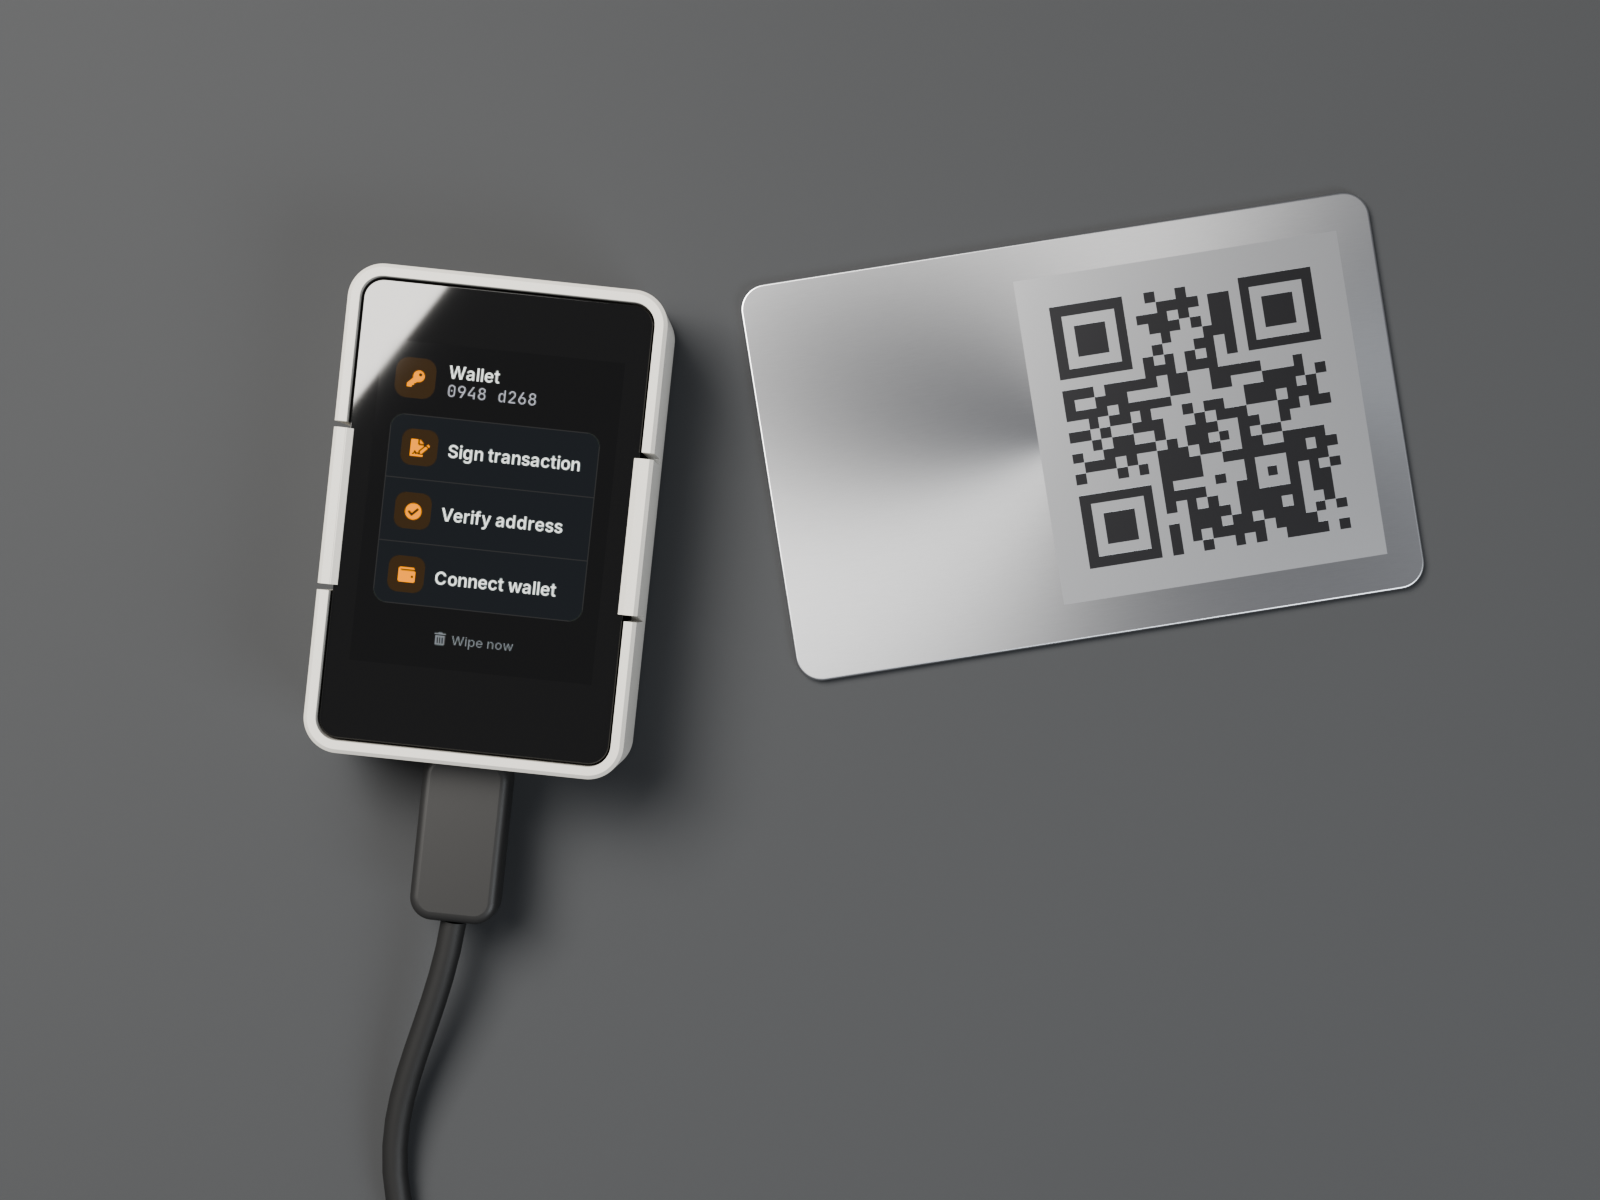
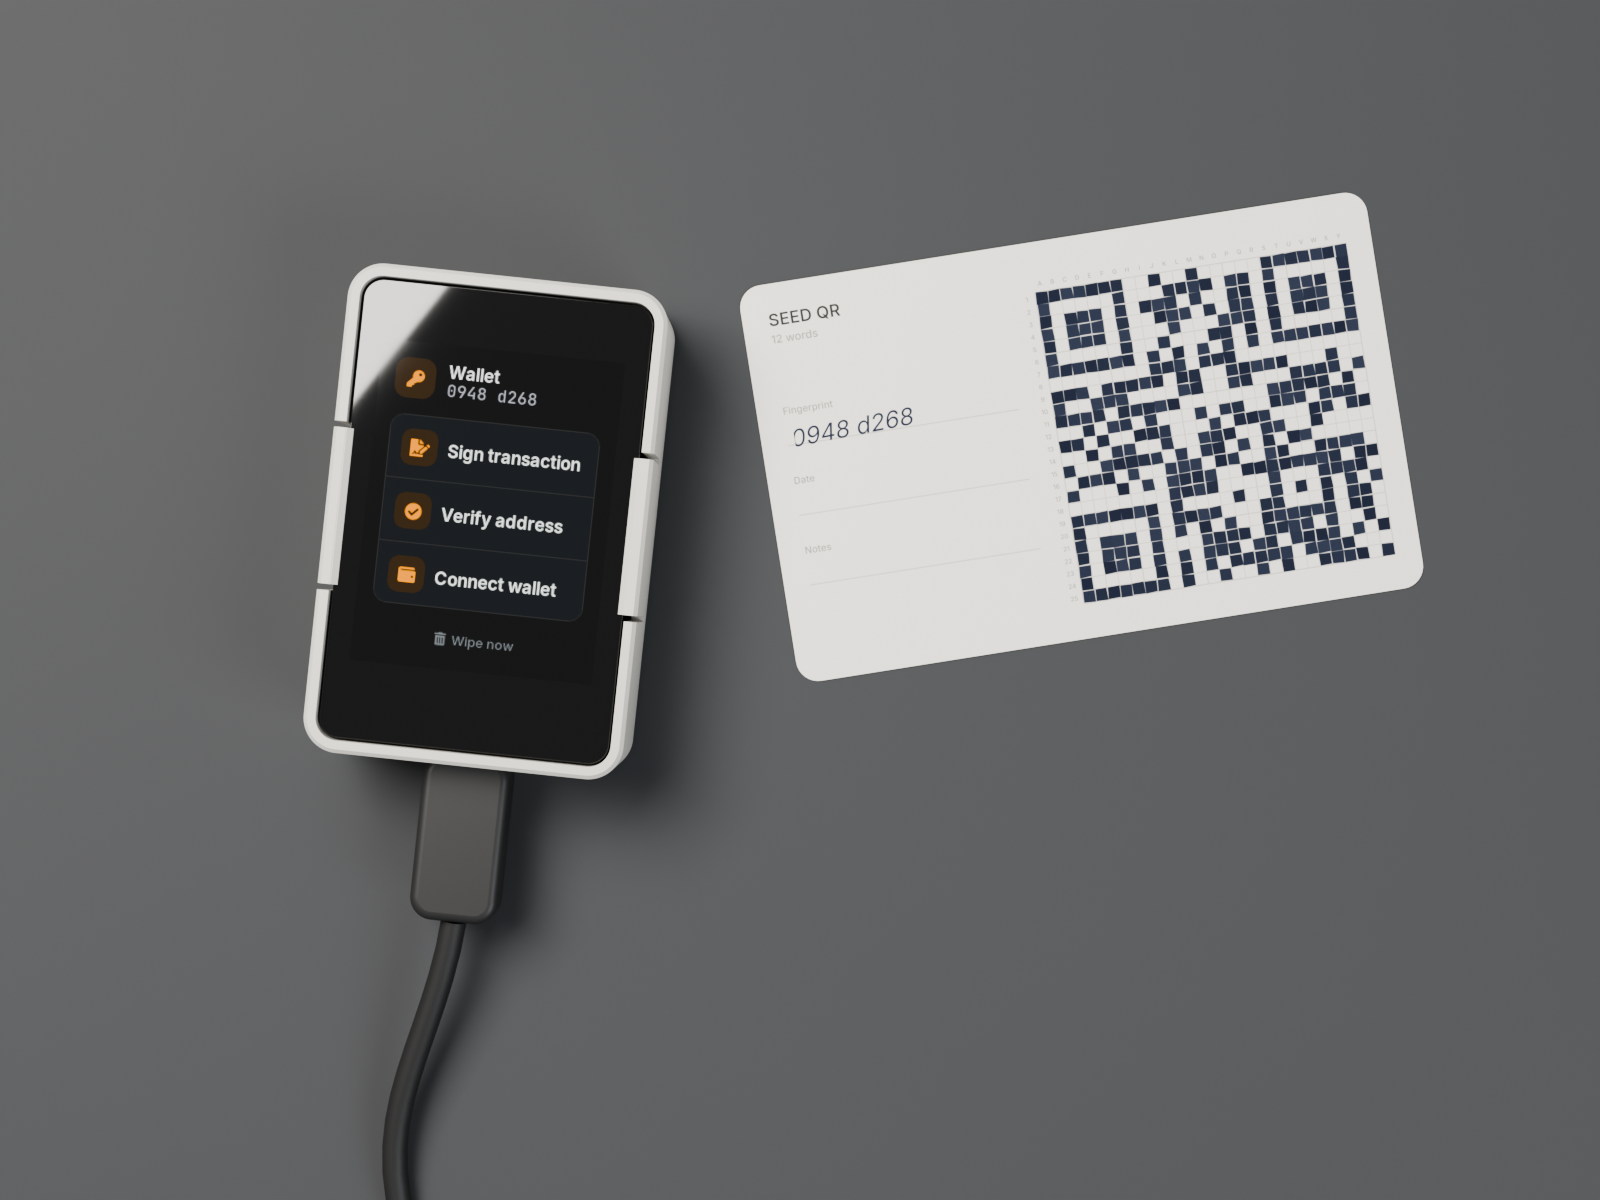
Replace the steel plate with a paper SeedQR card in the mockups
The card is a real, scannable SeedQR (ZXing decodes it) of SeedSigner's
public 12-word test vector, hand-filled style on a printed grid, matching the
fingerprint the device screens show. Generator: assets/make_seedqr_card.py.

Changed region(s): [[0.4375, 0.1542, 0.9062, 0.555], [0.5, 0.555, 0.5625, 0.5858]]

diff --git a/marketing/renders/scenes.py b/marketing/renders/scenes.py
@@ -1,9 +1,10 @@
 """Lifestyle mockups: the real case in context (desk with a laptop, flat lay
-with a steel seed backup, close-up). Device geometry and screens come from
+with a paper SeedQR backup, close-up). Device geometry and screens come from
 device.py, i.e. the real case STL and the firmware's simulator screenshots.
 
 The laptop shows a generic wallet window (assets/laptop_screen.png), not any
-real app's UI. The steel plate carries SeedSigner's public 12-word test vector.
+real app's UI. The paper SeedQR card carries SeedSigner's public 12-word test vector
+(the same seed the device screens show, fingerprint 0948d268).
 
 Run from the repo root:
     blender -b -P marketing/renders/scenes.py
@@ -158,52 +159,33 @@ def laptop(loc, rz, open_deg=112):
     return root
 
 
-def steel_plate(loc, rz):
-    root = bpy.data.objects.new("plate", None)
-    link(root)
-    m, nt, p = node_mat("steel")
-    # brushed: anisotropic-ish streaks from stretched noise
+def seed_card(loc, rz):
+    """Paper SeedQR backup card, credit-card size, filled in by hand (assets/seedqr_card.png)."""
+    m, nt, p = node_mat("seedqr_card")
     tc = nt.nodes.new("ShaderNodeTexCoord")
-    mp = nt.nodes.new("ShaderNodeMapping"); mp.inputs["Scale"].default_value = (1, 120, 1)
-    noise = nt.nodes.new("ShaderNodeTexNoise"); noise.inputs["Scale"].default_value = 6.0
-    ramp = nt.nodes.new("ShaderNodeValToRGB")
-    ramp.color_ramp.elements[0].color = (0.55, 0.56, 0.58, 1)
-    ramp.color_ramp.elements[1].color = (0.75, 0.76, 0.78, 1)
-    nt.links.new(tc.outputs["Object"], mp.inputs["Vector"])
-    nt.links.new(mp.outputs["Vector"], noise.inputs["Vector"])
-    nt.links.new(noise.outputs["Fac"], ramp.inputs["Fac"])
-    nt.links.new(ramp.outputs["Color"], p.inputs["Base Color"])
-    p.inputs["Metallic"].default_value = 1.0
-    p.inputs["Roughness"].default_value = 0.3
-    p.inputs["Anisotropic"].default_value = 0.6
-    rounded_box("plate_body", 8.56, 5.4, 0.12, 0.35, 0.03, m, root, (0, 0, 0.06))
+    tex = nt.nodes.new("ShaderNodeTexImage")
+    tex.image = bpy.data.images.load(os.path.join(ASSETS, "seedqr_card.png"))
+    tex.extension = 'EXTEND'
+    nt.links.new(tc.outputs["UV"], tex.inputs["Vector"])
+    nt.links.new(tex.outputs["Color"], p.inputs["Base Color"])
+    noise = nt.nodes.new("ShaderNodeTexNoise"); noise.inputs["Scale"].default_value = 300.0
+    bump = nt.nodes.new("ShaderNodeBump"); bump.inputs["Strength"].default_value = 0.05
+    nt.links.new(noise.outputs["Fac"], bump.inputs["Height"])
+    nt.links.new(bump.outputs["Normal"], p.inputs["Normal"])
+    p.inputs["Roughness"].default_value = 0.85
+    p.inputs["Specular IOR Level"].default_value = 0.2
 
-    # punched dots: QR texture darkens and roughens the steel, plus a bump
-    qm, qt, qp = node_mat("plate_qr")
-    tex = qt.nodes.new("ShaderNodeTexImage")
-    tex.image = bpy.data.images.load(os.path.join(ASSETS, "plate_qr.png"))
-    tex.interpolation = 'Closest'
-    inv = qt.nodes.new("ShaderNodeInvert")
-    mixc = qt.nodes.new("ShaderNodeMix"); mixc.data_type = 'RGBA'
-    mixc.inputs["A"].default_value = (0.66, 0.67, 0.69, 1)
-    mixc.inputs["B"].default_value = (0.08, 0.08, 0.085, 1)
-    bump = qt.nodes.new("ShaderNodeBump"); bump.inputs["Strength"].default_value = 0.6
-    qt.links.new(tex.outputs["Color"], inv.inputs["Color"])
-    qt.links.new(inv.outputs["Color"], mixc.inputs["Factor"])
-    qt.links.new(mixc.outputs["Result"], qp.inputs["Base Color"])
-    qt.links.new(tex.outputs["Color"], bump.inputs["Height"])
-    qt.links.new(bump.outputs["Normal"], qp.inputs["Normal"])
-    qp.inputs["Metallic"].default_value = 1.0
-    qp.inputs["Roughness"].default_value = 0.35
     bpy.ops.mesh.primitive_plane_add(size=1)
-    q = bpy.context.object
-    q.scale = (4.4, 4.4, 1)
-    q.location = (1.6, 0, 0.1205)
-    q.data.materials.append(qm)
-    link(q, root)
-    root.location = loc
-    root.rotation_euler = (0, 0, rz)
-    return root
+    ob = bpy.context.object
+    ob.name = "seedqr_card"
+    ob.scale = (8.56, 5.4, 1)
+    bpy.ops.object.transform_apply(location=False, rotation=False, scale=True)
+    bev = ob.modifiers.new("corners", 'BEVEL')
+    bev.affect = 'VERTICES'; bev.width = 0.3; bev.segments = 8
+    ob.data.materials.append(m)
+    ob.location = (loc[0], loc[1], 0.02)
+    ob.rotation_euler = (0, 0, rz)
+    return ob
 
 
 def usb_cable(dev_root, path_world):
@@ -278,23 +260,23 @@ if want("a"):   # desk: reviewing a transaction, laptop showing the QR behind
     cam_data.dof.aperture_fstop = 2.8
     shoot("10_desk.png", (2.5, -17, 10.5), (0.6, 5, 3.0), (0, 0.2, 1.7), lens=34)
 
-if want("b"):   # flat lay on slate: device, steel seed backup, cable
+if want("b"):   # flat lay on slate: device, paper SeedQR backup, cable
     clear_scene()
     world((0.5, 0.5, 0.52, 1), 0.4)
     ground(slate_mat())
     dev = device("dev_b", BONE, "4_seed_menu", (-3.2, 0.4, UP), (0, 0, math.radians(-6)))
     usb_cable(dev, [(-4.5, -9), (-1, -13), (6, -12), (14, -15)])
-    steel_plate((4.6, 1.6, 0), math.radians(9))
+    seed_card((4.6, 1.6, 0), math.radians(9))
     area("key", (-25, 20, 50), 35, 60000, (1.0, 0.97, 0.92))
     area("fill", (30, -25, 35), 25, 12000, (0.9, 0.95, 1.0))
     top_down("11_flatlay.png", (0.8, -0.6), 30, lens=50)
 
-if want("c"):   # close-up: seed loaded next to the steel backup it came from
+if want("c"):   # close-up: seed loaded next to the SeedQR card it came from
     clear_scene()
     world((0.75, 0.72, 0.68, 1), 0.5)
     ground(linen_mat())
     device("dev_c", SIGNAL, "3_seed_loaded", (-3.0, 0.8, UP), (0, 0, math.radians(8)))
-    steel_plate((3.3, -1.0, 0), math.radians(-10))
+    seed_card((3.3, -1.0, 0), math.radians(-10))
     area("window", (-40, -10, 35), 35, 60000, (1.0, 0.96, 0.9))
     area("rim", (25, 35, 20), 20, 14000, (0.9, 0.95, 1.0))
     cam_data.dof.aperture_fstop = 3.2

diff --git a/marketing/renders/assets/make_seedqr_card.py b/marketing/renders/assets/make_seedqr_card.py
@@ -1,0 +1,76 @@
+"""Draw the paper SeedQR card used in scenes.py: a printed grid with the QR
+squares filled in by hand, encoding SeedSigner's public 12-word test vector
+(fingerprint 0948d268, the seed the device shows in those scenes).
+
+    uvx --with pillow --with numpy python make_seedqr_card.py <dir with Inter-*.ttf>
+"""
+import os
+import random
+import sys
+
+import numpy as np
+from PIL import Image, ImageDraw, ImageFilter, ImageFont
+
+HERE = os.path.dirname(os.path.abspath(__file__))
+F = sys.argv[1]
+SRC = os.path.join(HERE, "..", "..", "..", "firmware", "sim", "samples", "vector4_standard_12word.png")
+
+# Read the 25x25 module grid from the test vector image.
+src = np.array(Image.open(SRC).convert("L"))
+dark = src < 128
+ys, xs = np.where(dark)
+x0, x1, y0 = xs.min(), xs.max(), ys.min()
+N = 25
+cell = (x1 - x0 + 1) / N
+mods = np.array([[dark[int(y0 + (r + .5) * cell), int(x0 + (c + .5) * cell)] for c in range(N)] for r in range(N)])
+assert mods[:7, :7].sum() > 20, "finder pattern not found"
+
+S = 4                                   # supersample for crisp lines
+W, H = 1712 * S, 1080 * S               # 85.6 x 54 mm card at 200 px/cm
+im = Image.new("RGB", (W, H), (246, 243, 236))
+d = ImageDraw.Draw(im)
+font = lambda name, s: ImageFont.truetype(os.path.join(F, name), s * S)
+gray, faint, ink = (150, 148, 142), (205, 202, 195), (28, 34, 52)
+
+# left: printed fields
+d.text((70 * S, 70 * S), "SEED QR", font=font("Inter-SemiBold.ttf", 46), fill=(60, 60, 60))
+d.text((70 * S, 132 * S), "12 words", font=font("Inter-Medium.ttf", 30), fill=gray)
+for i, label in enumerate(["Fingerprint", "Date", "Notes"]):
+    y = (330 + i * 190) * S
+    d.text((70 * S, y), label, font=font("Inter-Medium.ttf", 26), fill=gray)
+    d.line([(70 * S, y + 110 * S), (700 * S, y + 110 * S)], fill=faint, width=3 * S)
+
+# right: grid with labels, squares filled in by hand
+g = 34 * S
+gx, gy = W - 70 * S - N * g, (H - N * g) // 2 + 20 * S
+lab = font("Inter-Medium.ttf", 17)
+for i in range(N):
+    d.text((gx + i * g + g // 2, gy - 22 * S), chr(65 + i), font=lab, fill=gray, anchor="mm")
+    d.text((gx - 24 * S, gy + i * g + g // 2), str(i + 1), font=lab, fill=gray, anchor="mm")
+for i in range(N + 1):
+    w = 2 * S if i % 5 else 3 * S
+    d.line([(gx + i * g, gy), (gx + i * g, gy + N * g)], fill=faint, width=w)
+    d.line([(gx, gy + i * g), (gx + N * g, gy + i * g)], fill=faint, width=w)
+
+rnd = random.Random(42)
+for r in range(N):
+    for c in range(N):
+        if not mods[r, c]:
+            continue
+        x, y = gx + c * g, gy + r * g
+        j = lambda: rnd.randint(0, 2) * S
+        poly = [(x + j(), y + j()), (x + g - j(), y + j()), (x + g - j(), y + g - j()), (x + j(), y + g - j())]
+        shade = rnd.randint(0, 18)
+        d.polygon(poly, fill=(ink[0] + shade, ink[1] + shade, ink[2] + shade))
+
+# fingerprint written in, slanted like handwriting
+hw = Image.new("RGBA", (900 * S, 160 * S), (0, 0, 0, 0))
+ImageDraw.Draw(hw).text((0, 0), "0948 d268", font=font("Inter-Regular.ttf", 64), fill=ink + (235,))
+hw = hw.transform(hw.size, Image.AFFINE, (1, 0.18, 0, 0, 1, 0), resample=Image.BICUBIC).rotate(2, resample=Image.BICUBIC)
+im.paste(hw, (90 * S, 368 * S), hw)
+
+im = im.resize((W // S, H // S), Image.LANCZOS).filter(ImageFilter.GaussianBlur(0.4))
+arr = np.array(im).astype(np.int16)
+arr += np.random.default_rng(1).integers(-4, 5, arr.shape[:2])[..., None]   # paper fibre
+Image.fromarray(np.clip(arr, 0, 255).astype(np.uint8)).save(os.path.join(HERE, "seedqr_card.png"))
+print("ok", int(mods.sum()), "modules")

diff --git a/marketing/README.md b/marketing/README.md
@@ -33,12 +33,14 @@ ONLY=a SAMPLES=64 PCT=50 blender -b -P marketing/renders/scenes.py
 | Scene | Shows |
 |---|---|
 | `out/10_desk.png` | On a desk with a USB-C cable, reviewing a transaction; a laptop behind shows the transaction QR |
-| `out/11_flatlay.png` | Flat lay on slate: wallet menu, steel seed backup, cable |
-| `out/12_backup_closeup.png` | Seed loaded, next to the steel plate it was scanned from |
+| `out/11_flatlay.png` | Flat lay on slate: wallet menu, paper SeedQR backup card, cable |
+| `out/12_backup_closeup.png` | Seed loaded, next to the SeedQR card it was scanned from |
 
 The laptop shows a generic wallet window (`renders/assets/laptop_screen.png`,
-drawn for these renders), not any real app's interface. The steel plate
-carries SeedSigner's public 12-word test vector. Shared device code lives in
+drawn for these renders), not any real app's interface. The SeedQR card
+(`renders/assets/seedqr_card.png`, drawn by `make_seedqr_card.py`) is a real,
+scannable QR of SeedSigner's public 12-word test vector, the same seed the
+screens show (fingerprint `0948 d268`). Shared device code lives in
 `renders/device.py`.
 
 Colours are plausible PLA colours, not tested prints. Screens show testnet
